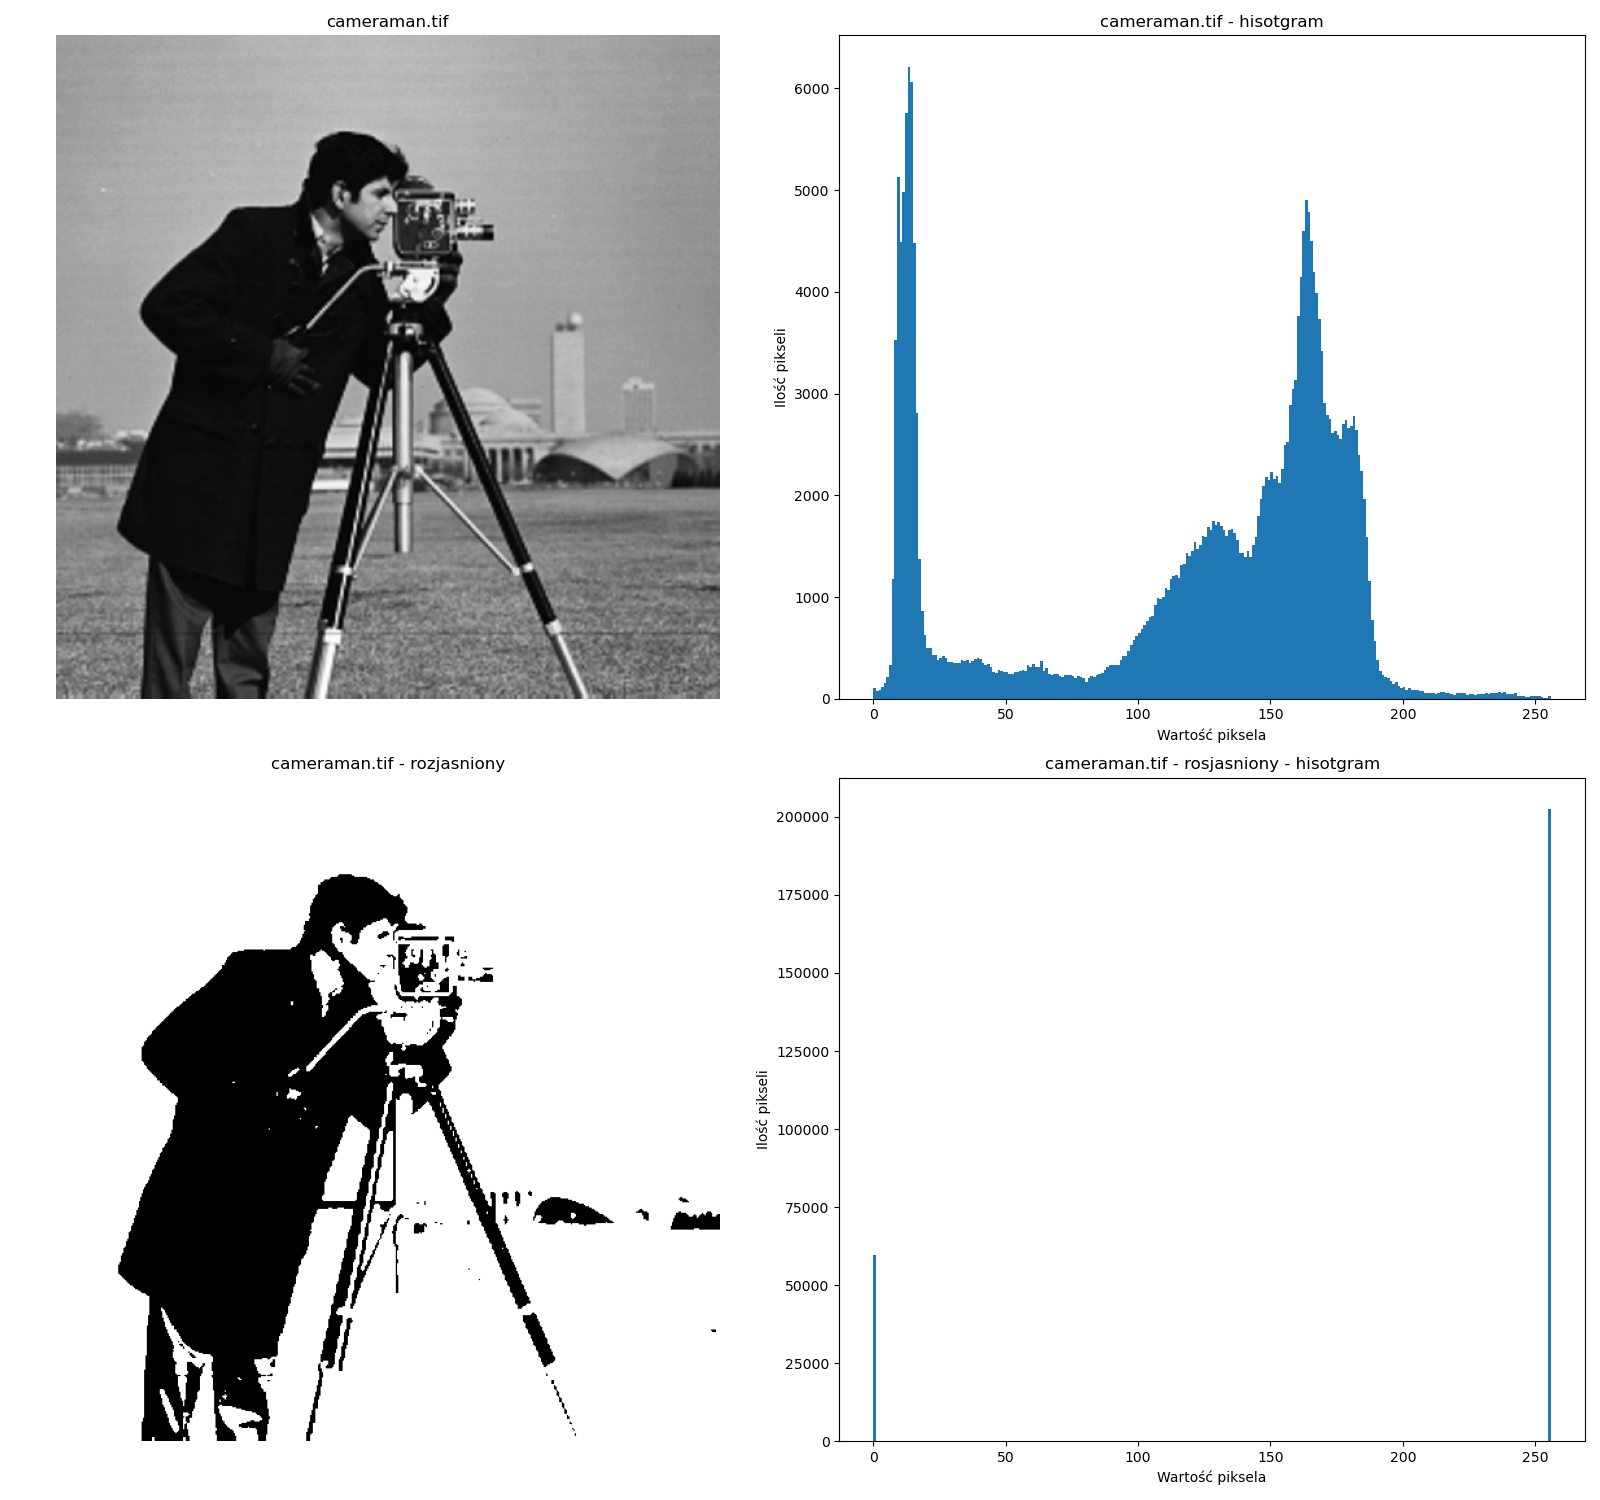
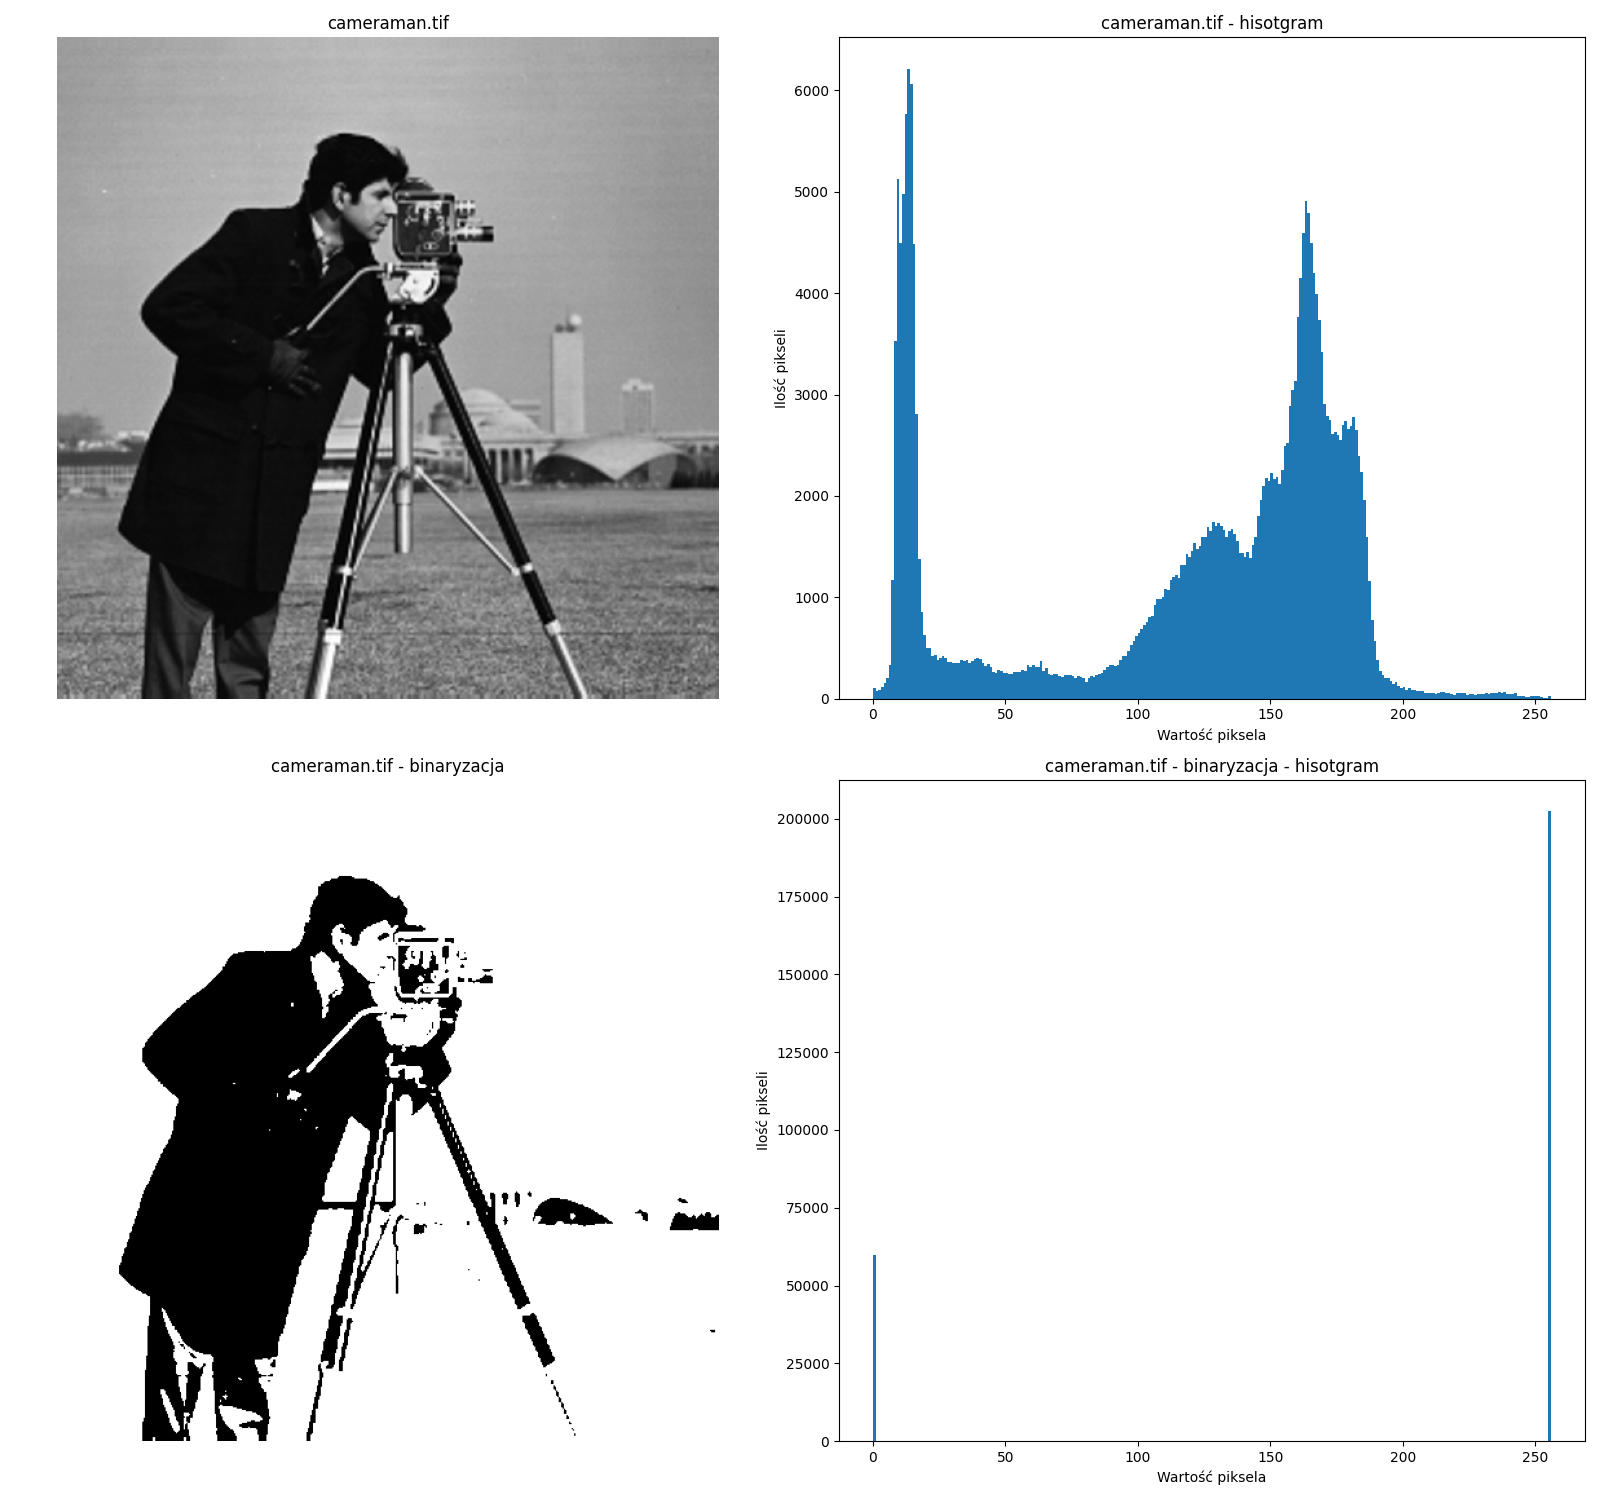
df

diff --git a/psio/zajecia7/main.py b/psio/zajecia7/main.py
@@ -5,12 +5,11 @@ import copy
 
 
 img1 = cv2.imread("cameraman.tif", cv2.IMREAD_GRAYSCALE)
-img1 = img1.astype(np.float32)
+# img1 = img1.astype(np.float32)
 img2 = cv2.imread("livingroom.tif", cv2.IMREAD_GRAYSCALE)
-img2 = img2.astype(np.float32)
+# img2 = img2.astype(np.float32)
 img3 = cv2.imread("fota.jpg", cv2.IMREAD_GRAYSCALE)
 img3 = img3.astype(np.float32)
-
 
 
 # fig, axs = plt.subplots(1, 2)
@@ -103,8 +102,8 @@ img3 = img3.astype(np.float32)
 # fig.set_size_inches(16, 15)
 # ax = axs[0,0]; ax.imshow(img1, cmap='grey'); ax.axis('off'); ax.set_title("cameraman.tif")
 # ax = axs[0,1]; ax.hist(img1.ravel(), bins=256, range=(0,256)); ax.set_title("cameraman.tif - hisotgram"); ax.set_xlabel("Wartość piksela"); ax.set_ylabel("Ilość pikseli")
-# ax = axs[1,0]; ax.imshow(img1_mniejszy_kontrast, cmap='grey'); ax.axis('off'); ax.set_title("cameraman.tif - rozjasniony")
-# ax = axs[1,1]; ax.hist(img1_mniejszy_kontrast.ravel(), bins=256, range=(0,256)); ax.set_title("cameraman.tif - rosjasniony - hisotgram"); ax.set_xlabel("Wartość piksela"); ax.set_ylabel("Ilość pikseli")
+# ax = axs[1,0]; ax.imshow(img1_mniejszy_kontrast, cmap='grey'); ax.axis('off'); ax.set_title("cameraman.tif - mniejszy kontrast")
+# ax = axs[1,1]; ax.hist(img1_mniejszy_kontrast.ravel(), bins=256, range=(0,256)); ax.set_title("cameraman.tif - mniejszy kontrast - hisotgram"); ax.set_xlabel("Wartość piksela"); ax.set_ylabel("Ilość pikseli")
 # fig.set_tight_layout(tight=True)
 # plt.savefig("Zadanie3_a")
 #
@@ -112,8 +111,8 @@ img3 = img3.astype(np.float32)
 # fig.set_size_inches(16, 15)
 # ax = axs[0,0]; ax.imshow(img2, cmap='grey'); ax.axis('off'); ax.set_title("livingroom.tif")
 # ax = axs[0,1]; ax.hist(img2.ravel(), bins=256, range=(0,256)); ax.set_title("livingroom.tif - hisotgram"); ax.set_xlabel("Wartość piksela"); ax.set_ylabel("Ilość pikseli")
-# ax = axs[1,0]; ax.imshow(img2_wieszky_kontrast, cmap='grey'); ax.axis('off'); ax.set_title("livingroom.tif - rozjasniony")
-# ax = axs[1,1]; ax.hist(img2_wieszky_kontrast.ravel(), bins=256, range=(0,256)); ax.set_title("livingroom.tif - rosjasniony - hisotgram"); ax.set_xlabel("Wartość piksela"); ax.set_ylabel("Ilość pikseli")
+# ax = axs[1,0]; ax.imshow(img2_wieszky_kontrast, cmap='grey'); ax.axis('off'); ax.set_title("livingroom.tif - wiekszy kontrast")
+# ax = axs[1,1]; ax.hist(img2_wieszky_kontrast.ravel(), bins=256, range=(0,256)); ax.set_title("livingroom.tif - wiekszy kontrast - hisotgram"); ax.set_xlabel("Wartość piksela"); ax.set_ylabel("Ilość pikseli")
 # fig.set_tight_layout(tight=True)
 # plt.savefig("Zadanie3_b")
 
@@ -154,8 +153,8 @@ img3 = img3.astype(np.float32)
 # fig.set_size_inches(16, 15)
 # ax = axs[0,0]; ax.imshow(img1, cmap='grey'); ax.axis('off'); ax.set_title("cameraman.tif")
 # ax = axs[0,1]; ax.hist(img1.ravel(), bins=256, range=(0,256)); ax.set_title("cameraman.tif - hisotgram"); ax.set_xlabel("Wartość piksela"); ax.set_ylabel("Ilość pikseli")
-# ax = axs[1,0]; ax.imshow(img1_zbinaryzowany, cmap='grey'); ax.axis('off'); ax.set_title("cameraman.tif - rozjasniony")
-# ax = axs[1,1]; ax.hist(img1_zbinaryzowany.ravel(), bins=256, range=(0,256)); ax.set_title("cameraman.tif - rosjasniony - hisotgram"); ax.set_xlabel("Wartość piksela"); ax.set_ylabel("Ilość pikseli")
+# ax = axs[1,0]; ax.imshow(img1_zbinaryzowany, cmap='grey'); ax.axis('off'); ax.set_title("cameraman.tif - binaryzacja")
+# ax = axs[1,1]; ax.hist(img1_zbinaryzowany.ravel(), bins=256, range=(0,256)); ax.set_title("cameraman.tif - binaryzacja - hisotgram"); ax.set_xlabel("Wartość piksela"); ax.set_ylabel("Ilość pikseli")
 # fig.set_tight_layout(tight=True)
 # plt.savefig("Zadanie4_a")
 #
@@ -163,7 +162,77 @@ img3 = img3.astype(np.float32)
 # fig.set_size_inches(16, 15)
 # ax = axs[0,0]; ax.imshow(img2, cmap='grey'); ax.axis('off'); ax.set_title("livingroom.tif")
 # ax = axs[0,1]; ax.hist(img2.ravel(), bins=256, range=(0,256)); ax.set_title("livingroom.tif - hisotgram"); ax.set_xlabel("Wartość piksela"); ax.set_ylabel("Ilość pikseli")
-# ax = axs[1,0]; ax.imshow(img2_zbinaryzowany, cmap='grey'); ax.axis('off'); ax.set_title("livingroom.tif - rozjasniony")
-# ax = axs[1,1]; ax.hist(img2_zbinaryzowany.ravel(), bins=256, range=(0,256)); ax.set_title("livingroom.tif - rosjasniony - hisotgram"); ax.set_xlabel("Wartość piksela"); ax.set_ylabel("Ilość pikseli")
+# ax = axs[1,0]; ax.imshow(img2_zbinaryzowany, cmap='grey'); ax.axis('off'); ax.set_title("livingroom.tif - binaryzacja")
+# ax = axs[1,1]; ax.hist(img2_zbinaryzowany.ravel(), bins=256, range=(0,256)); ax.set_title("livingroom.tif - binaryzacja - hisotgram"); ax.set_xlabel("Wartość piksela"); ax.set_ylabel("Ilość pikseli")
 # fig.set_tight_layout(tight=True)
 # plt.savefig("Zadanie4_b")
+
+
+
+
+
+
+
+
+
+
+
+
+
+# img1_blurred = cv2.GaussianBlur(img1, (21,21), 0)
+# img2_blurred = cv2.GaussianBlur(img2, (21,21), 0)
+#
+#
+# fig, axs = plt.subplots(2, 2)
+# fig.set_size_inches(16, 15)
+# ax = axs[0,0]; ax.imshow(img1, cmap='grey'); ax.axis('off'); ax.set_title("cameraman.tif")
+# ax = axs[0,1]; ax.hist(img1.ravel(), bins=256, range=(0,256)); ax.set_title("cameraman.tif - hisotgram"); ax.set_xlabel("Wartość piksela"); ax.set_ylabel("Ilość pikseli")
+# ax = axs[1,0]; ax.imshow(img1_blurred, cmap='grey'); ax.axis('off'); ax.set_title("cameraman.tif - binaryzacja")
+# ax = axs[1,1]; ax.hist(img1_blurred.ravel(), bins=256, range=(0,256)); ax.set_title("cameraman.tif - binaryzacja - hisotgram"); ax.set_xlabel("Wartość piksela"); ax.set_ylabel("Ilość pikseli")
+# fig.set_tight_layout(tight=True)
+# plt.savefig("Zadanie5_a")
+#
+# fig, axs = plt.subplots(2, 2)
+# fig.set_size_inches(16, 15)
+# ax = axs[0,0]; ax.imshow(img2, cmap='grey'); ax.axis('off'); ax.set_title("livingroom.tif")
+# ax = axs[0,1]; ax.hist(img2.ravel(), bins=256, range=(0,256)); ax.set_title("livingroom.tif - hisotgram"); ax.set_xlabel("Wartość piksela"); ax.set_ylabel("Ilość pikseli")
+# ax = axs[1,0]; ax.imshow(img2_blurred, cmap='grey'); ax.axis('off'); ax.set_title("livingroom.tif - binaryzacja")
+# ax = axs[1,1]; ax.hist(img2_blurred.ravel(), bins=256, range=(0,256)); ax.set_title("livingroom.tif - binaryzacja - hisotgram"); ax.set_xlabel("Wartość piksela"); ax.set_ylabel("Ilość pikseli")
+# fig.set_tight_layout(tight=True)
+# plt.savefig("Zadanie5_b")
+
+
+
+
+
+
+
+
+
+
+# kernel = np.array([[0, -1, 0], [-1, 5, -1], [0, -1, 0]])
+
+
+# img1_sharp = cv2.filter2D(img1, -1, kernel)
+# img2_sharp = cv2.filter2D(img2, -1, kernel)
+img1_sharp = cv2.Canny(img1, 120, 300)
+img2_sharp = cv2.Canny(img2, 120, 300)
+
+
+fig, axs = plt.subplots(2, 2)
+fig.set_size_inches(16, 15)
+ax = axs[0,0]; ax.imshow(img1, cmap='grey'); ax.axis('off'); ax.set_title("cameraman.tif")
+ax = axs[0,1]; ax.hist(img1.ravel(), bins=256, range=(0,256)); ax.set_title("cameraman.tif - hisotgram"); ax.set_xlabel("Wartość piksela"); ax.set_ylabel("Ilość pikseli")
+ax = axs[1,0]; ax.imshow(img1_sharp, cmap='grey'); ax.axis('off'); ax.set_title("cameraman.tif - binaryzacja")
+ax = axs[1,1]; ax.hist(img1_sharp.ravel(), bins=256, range=(0,256)); ax.set_title("cameraman.tif - binaryzacja - hisotgram"); ax.set_xlabel("Wartość piksela"); ax.set_ylabel("Ilość pikseli")
+fig.set_tight_layout(tight=True)
+plt.savefig("Zadanie5_c")
+
+fig, axs = plt.subplots(2, 2)
+fig.set_size_inches(16, 15)
+ax = axs[0,0]; ax.imshow(img2, cmap='grey'); ax.axis('off'); ax.set_title("livingroom.tif")
+ax = axs[0,1]; ax.hist(img2.ravel(), bins=256, range=(0,256)); ax.set_title("livingroom.tif - hisotgram"); ax.set_xlabel("Wartość piksela"); ax.set_ylabel("Ilość pikseli")
+ax = axs[1,0]; ax.imshow(img2_sharp, cmap='grey'); ax.axis('off'); ax.set_title("livingroom.tif - binaryzacja")
+ax = axs[1,1]; ax.hist(img2_sharp.ravel(), bins=256, range=(0,256)); ax.set_title("livingroom.tif - binaryzacja - hisotgram"); ax.set_xlabel("Wartość piksela"); ax.set_ylabel("Ilość pikseli")
+fig.set_tight_layout(tight=True)
+plt.savefig("Zadanie5_d")
